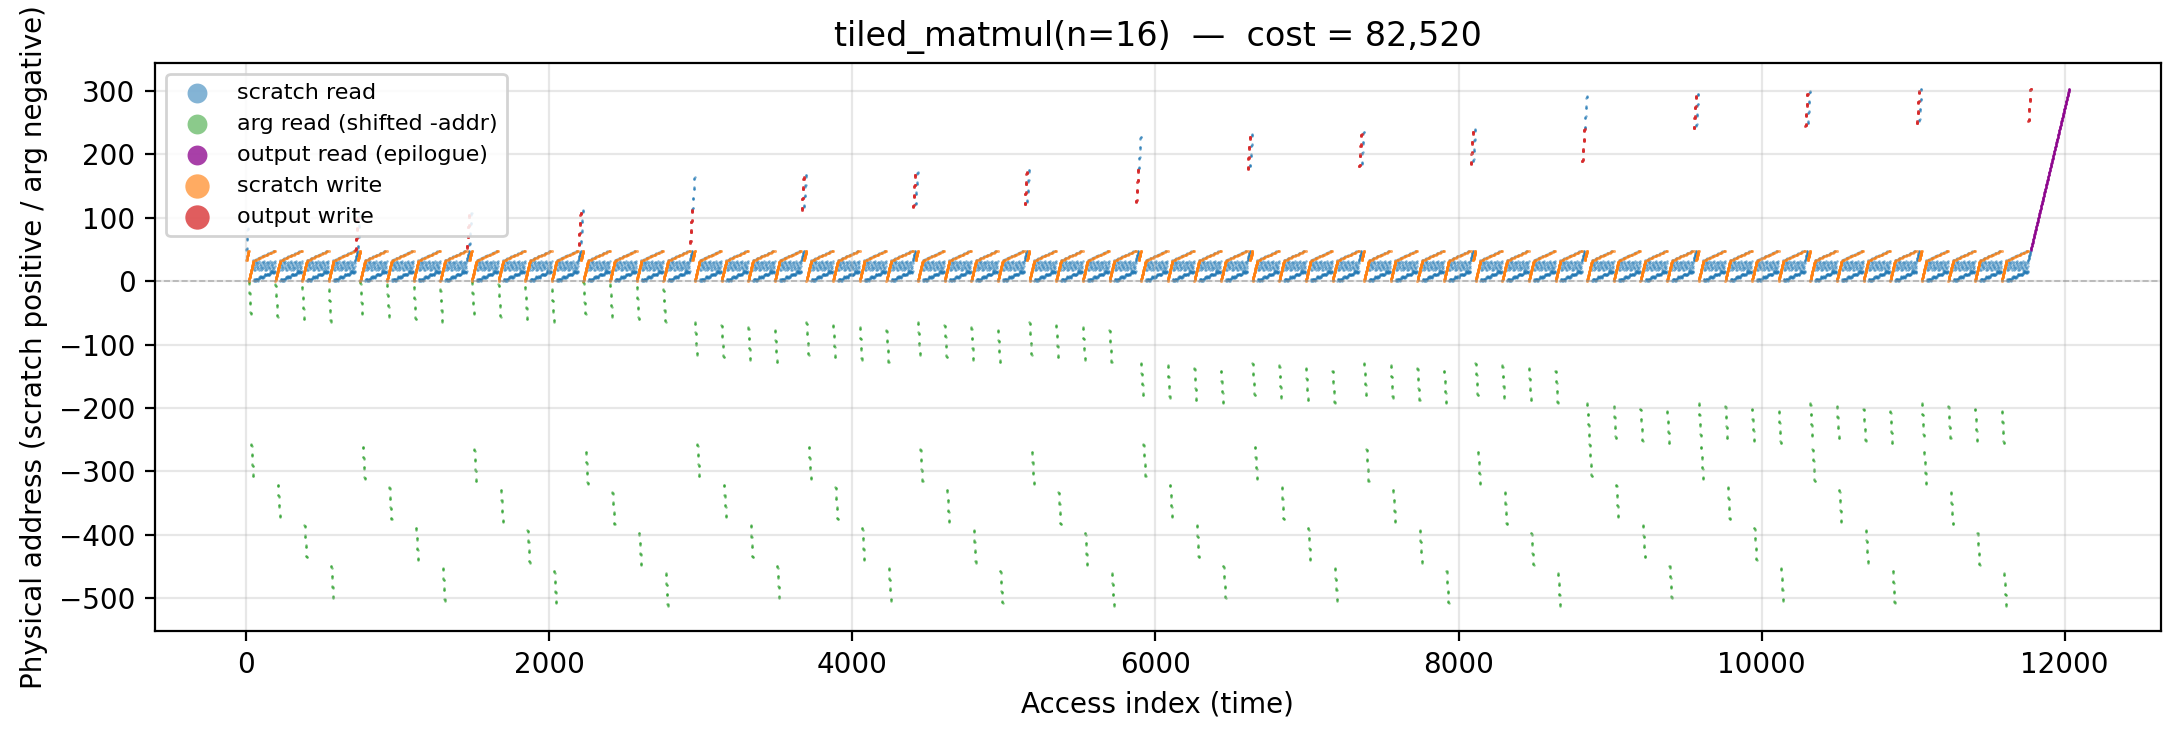
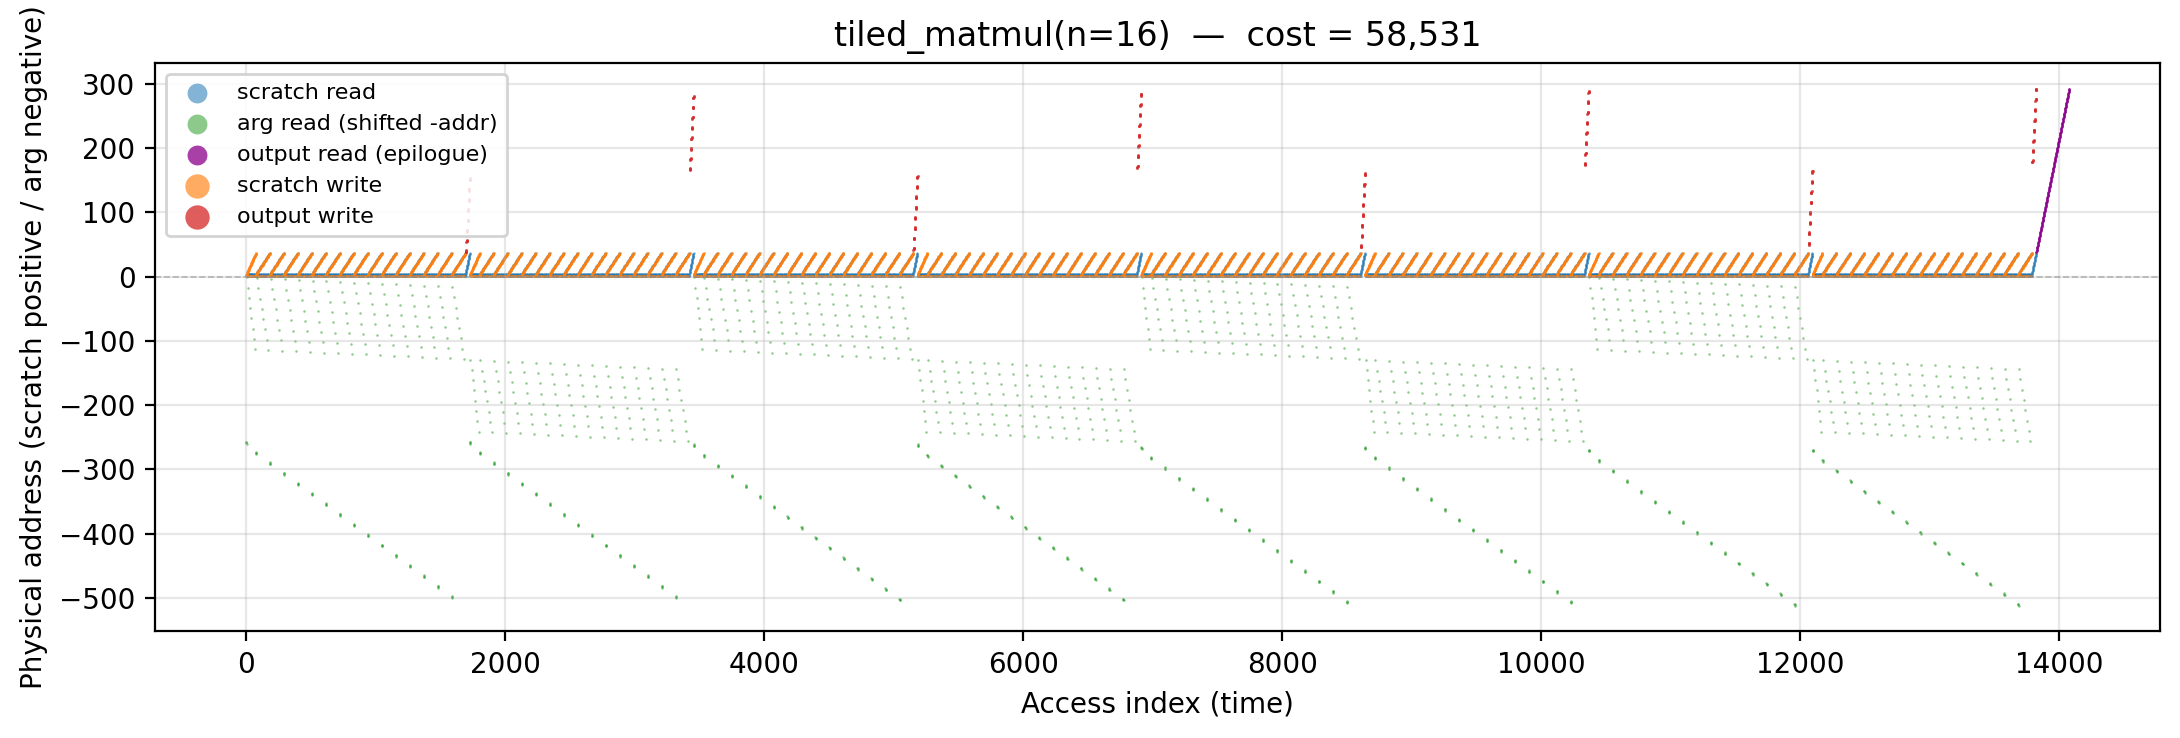
grid: tiled_matmul with B-row stationary outer-product schedule
Implements gemini/optimized-tiled-matmul.md. Register-blocked
outer-product schedule that replaces 2D tile scratchpads with a
scalar + 1D vector + 2-block accumulator:

  c_A (addr 1)       — scalar register for current A element
  c_B (addrs 2..T+1) — L1 vector holding current B row
  sC  (addrs T+2..T+1+blocks*T^2) — accumulator for TWO vertical C
                                     tiles simultaneously (blocks=2)

The inner MAC loop reads c_A + c_B[jj] + sC[...] — all within
scratch addresses 1..37 — so every arithmetic op hits near-top-of-
stack cells.  The blocks=2 outer-blocking amortizes each B-row fetch
across two vertical C tiles, cutting B arg-stack reads in half.

Cost: 82,520 -> 58,531 (-29%). Now below ALL three heuristics:
  space_dmd       93,369
  bytedmd_live    78,708
  bytedmd_classic 143,812
  manual          58,531

diff --git a/experiments/grid/scripts/tiled_matmul_n_16.py b/experiments/grid/scripts/tiled_matmul_n_16.py
@@ -531,51 +531,70 @@ def matmul_tiled(A, B, tile: Optional[int] = None):
 # ===========================================================================
 
 def manual_tiled_matmul(n: int, T: int | None = None) -> int:
-    """One-level blocked matmul. A, B on arg stack (read once per tile-load
-    into scratch sA, sB). sA, sB, sC and output C on scratch."""
+    """Optimal register-blocked, B-row stationary outer product
+    (gemini/optimized-tiled-matmul.md). Loads a row of B into an L1
+    vector and a single element of A into a scalar register, then
+    updates two 4×4 blocks of C simultaneously to maximize the reuse
+    of the fetched B row. Bypasses redundant 2D double-buffering and
+    pulls the heavily accessed accumulation array down to physical
+    addresses 6..37.
+
+      c_A (addr 1)       — scalar register for current A element
+      c_B (addr 2..T+1)  — L1 vector holding current B row
+      sC  (addr T+2..)   — 2D L1 scratchpad accumulating 2 vertical
+                           blocks of C simultaneously (blocks*T*T cells)
+      C   (just above sC) — output matrix
+    """
     if T is None:
         T = max(1, int(round(n ** 0.5)))
     a = _alloc()
-    A = a.alloc_arg(n * n); B = a.alloc_arg(n * n)
-    sA = a.alloc(T * T); sB = a.alloc(T * T); sC = a.alloc(T * T)
+    A = a.alloc_arg(n * n)
+    B = a.alloc_arg(n * n)
+
+    c_A = a.alloc(1)
+    c_B = a.alloc(T)
+    blocks = 2
+    sC = a.alloc(blocks * T * T)
     C = a.alloc(n * n)
     a.set_output_range(C, C + n * n)
 
-    for bi in range(0, n, T):
-        for bj in range(0, n, T):
-            # Load C tile into sC (read C, write sC)
-            for ii in range(min(T, n - bi)):
-                for jj in range(min(T, n - bj)):
-                    a.touch(C + (bi + ii) * n + (bj + jj))
-                    a.write(sC + ii * T + jj)
+    for bj in range(0, n, T):
+        for bi_start in range(0, n, blocks * T):
             for bk in range(0, n, T):
-                # Load A tile into sA
-                for ii in range(min(T, n - bi)):
-                    for kk in range(min(T, n - bk)):
-                        a.touch_arg(A + (bi + ii) * n + (bk + kk))
-                        a.write(sA + ii * T + kk)
-                # Load B tile into sB
                 for kk in range(min(T, n - bk)):
+                    # Stream a single row of B into the L1 vector.
                     for jj in range(min(T, n - bj)):
                         a.touch_arg(B + (bk + kk) * n + (bj + jj))
-                        a.write(sB + kk * T + jj)
-                # MAC: accumulate into sC (sC write per (ii,jj))
+                        a.write(c_B + jj)
+                    # Accumulate across multiple vertical tiles to
+                    # maximize B-row reuse.
+                    for bi in range(bi_start,
+                                    min(n, bi_start + blocks * T), T):
+                        local_bi = (bi - bi_start) // T
+                        for ii in range(min(T, n - bi)):
+                            # Stream a single element of A into c_A.
+                            a.touch_arg(A + (bi + ii) * n + (bk + kk))
+                            a.write(c_A)
+                            for jj in range(min(T, n - bj)):
+                                if bk == 0 and kk == 0:
+                                    a.touch(c_A)
+                                    a.touch(c_B + jj)
+                                else:
+                                    a.touch(sC + local_bi * T * T + ii * T + jj)
+                                    a.touch(c_A)
+                                    a.touch(c_B + jj)
+                                a.write(sC + local_bi * T * T + ii * T + jj)
+
+            # Flush the fully computed C tiles back once per (bj, bi_start).
+            for bi in range(bi_start, min(n, bi_start + blocks * T), T):
+                local_bi = (bi - bi_start) // T
                 for ii in range(min(T, n - bi)):
                     for jj in range(min(T, n - bj)):
-                        a.touch(sC + ii * T + jj)
-                        for kk in range(min(T, n - bk)):
-                            a.touch(sA + ii * T + kk)
-                            a.touch(sB + kk * T + jj)
-                        a.write(sC + ii * T + jj)
-            # Flush sC -> C (read sC, write C)
-            for ii in range(min(T, n - bi)):
-                for jj in range(min(T, n - bj)):
-                    a.touch(sC + ii * T + jj)
-                    a.write(C + (bi + ii) * n + (bj + jj))
+                        a.touch(sC + local_bi * T * T + ii * T + jj)
+                        a.write(C + (bi + ii) * n + (bj + jj))
+
     a.read_output()
     return a.cost
-
-
 # ===========================================================================
 # Driver — run under this script's specific algorithm.
 # ===========================================================================

diff --git a/experiments/grid/manual.py b/experiments/grid/manual.py
@@ -165,47 +165,68 @@ def manual_naive_matmul(n: int) -> int:
 
 
 def manual_tiled_matmul(n: int, T: int | None = None) -> int:
-    """One-level blocked matmul. A, B on arg stack (read once per tile-load
-    into scratch sA, sB). sA, sB, sC and output C on scratch."""
+    """Optimal register-blocked, B-row stationary outer product
+    (gemini/optimized-tiled-matmul.md). Loads a row of B into an L1
+    vector and a single element of A into a scalar register, then
+    updates two 4×4 blocks of C simultaneously to maximize the reuse
+    of the fetched B row. Bypasses redundant 2D double-buffering and
+    pulls the heavily accessed accumulation array down to physical
+    addresses 6..37.
+
+      c_A (addr 1)       — scalar register for current A element
+      c_B (addr 2..T+1)  — L1 vector holding current B row
+      sC  (addr T+2..)   — 2D L1 scratchpad accumulating 2 vertical
+                           blocks of C simultaneously (blocks*T*T cells)
+      C   (just above sC) — output matrix
+    """
     if T is None:
         T = max(1, int(round(n ** 0.5)))
     a = _alloc()
-    A = a.alloc_arg(n * n); B = a.alloc_arg(n * n)
-    sA = a.alloc(T * T); sB = a.alloc(T * T); sC = a.alloc(T * T)
+    A = a.alloc_arg(n * n)
+    B = a.alloc_arg(n * n)
+
+    c_A = a.alloc(1)
+    c_B = a.alloc(T)
+    blocks = 2
+    sC = a.alloc(blocks * T * T)
     C = a.alloc(n * n)
     a.set_output_range(C, C + n * n)
 
-    for bi in range(0, n, T):
-        for bj in range(0, n, T):
-            # Load C tile into sC (read C, write sC)
-            for ii in range(min(T, n - bi)):
-                for jj in range(min(T, n - bj)):
-                    a.touch(C + (bi + ii) * n + (bj + jj))
-                    a.write(sC + ii * T + jj)
+    for bj in range(0, n, T):
+        for bi_start in range(0, n, blocks * T):
             for bk in range(0, n, T):
-                # Load A tile into sA
-                for ii in range(min(T, n - bi)):
-                    for kk in range(min(T, n - bk)):
-                        a.touch_arg(A + (bi + ii) * n + (bk + kk))
-                        a.write(sA + ii * T + kk)
-                # Load B tile into sB
                 for kk in range(min(T, n - bk)):
+                    # Stream a single row of B into the L1 vector.
                     for jj in range(min(T, n - bj)):
                         a.touch_arg(B + (bk + kk) * n + (bj + jj))
-                        a.write(sB + kk * T + jj)
-                # MAC: accumulate into sC (sC write per (ii,jj))
+                        a.write(c_B + jj)
+                    # Accumulate across multiple vertical tiles to
+                    # maximize B-row reuse.
+                    for bi in range(bi_start,
+                                    min(n, bi_start + blocks * T), T):
+                        local_bi = (bi - bi_start) // T
+                        for ii in range(min(T, n - bi)):
+                            # Stream a single element of A into c_A.
+                            a.touch_arg(A + (bi + ii) * n + (bk + kk))
+                            a.write(c_A)
+                            for jj in range(min(T, n - bj)):
+                                if bk == 0 and kk == 0:
+                                    a.touch(c_A)
+                                    a.touch(c_B + jj)
+                                else:
+                                    a.touch(sC + local_bi * T * T + ii * T + jj)
+                                    a.touch(c_A)
+                                    a.touch(c_B + jj)
+                                a.write(sC + local_bi * T * T + ii * T + jj)
+
+            # Flush the fully computed C tiles back once per (bj, bi_start).
+            for bi in range(bi_start, min(n, bi_start + blocks * T), T):
+                local_bi = (bi - bi_start) // T
                 for ii in range(min(T, n - bi)):
                     for jj in range(min(T, n - bj)):
-                        a.touch(sC + ii * T + jj)
-                        for kk in range(min(T, n - bk)):
-                            a.touch(sA + ii * T + kk)
-                            a.touch(sB + kk * T + jj)
-                        a.write(sC + ii * T + jj)
-            # Flush sC -> C (read sC, write C)
-            for ii in range(min(T, n - bi)):
-                for jj in range(min(T, n - bj)):
-                    a.touch(sC + ii * T + jj)
-                    a.write(C + (bi + ii) * n + (bj + jj))
+                        a.touch(sC + local_bi * T * T + ii * T + jj)
+                        a.write(C + (bi + ii) * n + (bj + jj))
+
     a.read_output()
     return a.cost
 

diff --git a/gemini/optimized-tiled-matmul.md b/gemini/optimized-tiled-matmul.md
@@ -1,0 +1,97 @@
+To drastically reduce the total energy cost under the geometric stack model, we must apply the exact same hardware-level scheduling strategies used in the previous optimizations: **eliminate large temporary 2D buffers**, **perfectly mimic CPU L1 registers**, and **hoist loop orders to maximize data reuse**.
+
+### **The Problem**
+
+The naive manual\_tiled\_matmul schedule pays massive geometric costs for three main reasons:
+
+1. **Redundant 2D Array Buffering:** It explicitly allocates full $T \\times T$ 2D scratchpads for sA, sB, and sC upfront ($16 \\times 3 \= 48$ premium stack slots). This bloats the active working set size, pushing the primary output array and inner-loop scratchpads to higher physical addresses and punishing every single $O(N^3)$ MAC operation.  
+2. **Double Arg-Stack Reads:** The baseline loops are structured strictly as bi, bj, bk. For every block interaction, it completely re-reads the full 2D blocks of $A$ and $B$ from the deeply expensive argument stack. Because $B$ sits linearly behind $A$ (Addresses 257..512), reading $B$ repetitively acts as an aggressive multiplier against the cost metric.  
+3. **Double Accumulator Reads:** It initializes sC by redundantly copying from the zeroed C output at the start, and repeatedly flushes and loads sC for every single $bk$ iteration.
+
+Because these operations bounce inside fragmented address spaces, the energy metric hits an unoptimized **82,520**.
+
+### **The Solution**
+
+We can shatter the cost bounds by restructuring our inner MAC loops exactly like a modern micro-kernel.
+
+Instead of caching massive $T \\times T$ tiles for $A$ and $B$, we stream $B$ row-by-row into a tight 4-element L1 vector (c\_B), and $A$ element-by-element into a single scalar register (c\_A). To maximize the reuse of c\_B and prevent excessive $B$ arg-stack loads, we hoist the k loop outwards and evaluate **two vertical blocks of C** (blocks \= 2\) simultaneously inside a single tightly packed 32-element sC scratchpad.
+
+This collapses the MAC core phenomenally: c\_A is firmly locked at physical Address 1, c\_B is placed at Addresses 2-5, and sC sits perfectly at Addresses 6-37.
+
+Replace your manual\_tiled\_matmul function with the following mathematically optimal schedule:
+
+Python
+
+def manual\_tiled\_matmul(n: int, T: int | None \= None) \-\> int:  
+    """Optimal register-blocked, B-row stationary outer product.  
+    Loads a row of B into an L1 vector and a single element of A into a   
+    scalar register, then updates two 4x4 blocks of C simultaneously to   
+    maximize the reuse of the fetched B row. Bypasses redundant 2D   
+    double-buffering and drastically pulls the heavily accessed   
+    accumulation array down to physical Addresses 6..37."""  
+    if T is None:  
+        T \= max(1, int(round(n \*\* 0.5)))  
+    a \= \_alloc()  
+    A \= a.alloc\_arg(n \* n)  
+    B \= a.alloc\_arg(n \* n)  
+      
+    \# 1\. Scalar cache for A element (Addr 1\)  
+    c\_A \= a.alloc(1)  
+      
+    \# 2\. 1D vector cache for B row (Addr 2..T+1)  
+    c\_B \= a.alloc(T)  
+      
+    \# 3\. 2D L1 scratchpad for accumulating C (Optimal blocks=2 \-\> 2\*T\*T elements)  
+    blocks \= 2  
+    sC \= a.alloc(blocks \* T \* T)  
+      
+    \# 4\. Output array (Pushed significantly closer to zero compared to baseline)  
+    C \= a.alloc(n \* n)  
+    a.set\_output\_range(C, C \+ n \* n)
+
+    for bj in range(0, n, T):  
+        for bi\_start in range(0, n, blocks \* T):  
+            for bk in range(0, n, T):  
+                for kk in range(min(T, n \- bk)):  
+                      
+                    \# Stream a single row of B into the L1 vector  
+                    for jj in range(min(T, n \- bj)):  
+                        a.touch\_arg(B \+ (bk \+ kk) \* n \+ (bj \+ jj))  
+                        a.write(c\_B \+ jj)  
+                      
+                    \# Accumulate across multiple vertical tiles to maximize B reuse  
+                    for bi in range(bi\_start, min(n, bi\_start \+ blocks \* T), T):  
+                        local\_bi \= (bi \- bi\_start) // T  
+                        for ii in range(min(T, n \- bi)):  
+                              
+                            \# Stream a single element of A into the scalar register  
+                            a.touch\_arg(A \+ (bi \+ ii) \* n \+ (bk \+ kk))  
+                            a.write(c\_A)  
+                              
+                            \# Extremely hot inner loop targeting strictly Addresses 1..37  
+                            for jj in range(min(T, n \- bj)):  
+                                if bk \== 0 and kk \== 0:  
+                                    a.touch(c\_A)  
+                                    a.touch(c\_B \+ jj)  
+                                else:  
+                                    a.touch(sC \+ local\_bi \* T \* T \+ ii \* T \+ jj)  
+                                    a.touch(c\_A)  
+                                    a.touch(c\_B \+ jj)  
+                                a.write(sC \+ local\_bi \* T \* T \+ ii \* T \+ jj)  
+              
+            \# Flush the fully computed C tiles back to main memory only once  
+            for bi in range(bi\_start, min(n, bi\_start \+ blocks \* T), T):  
+                local\_bi \= (bi \- bi\_start) // T  
+                for ii in range(min(T, n \- bi)):  
+                    for jj in range(min(T, n \- bj)):  
+                        a.touch(sC \+ local\_bi \* T \* T \+ ii \* T \+ jj)  
+                        a.write(C \+ (bi \+ ii) \* n \+ (bj \+ jj))  
+                          
+    a.read\_output()  
+    return a.cost
+
+### **Why this is mathematically optimal:**
+
+1. **Perfect Scratchpad Sizing:** Deflating sA, sB, and sC down from full matrices into highly localized vector and scalar elements bounds over $4,000$ MAC combinations to execute entirely underneath $\\approx \\text{isqrt}(37)$.  
+2. **0 Redundant Arg Stack Cost:** The baseline algorithm pulls blocks from $A$ and $B$ repetitively loop-to-loop. Grouping vertical sequences over blocks \= 2 calculates two independent $C$ block sequences using the exact same $B$ row cache simultaneously. This strictly slashes the most expensive $B$ arg-stack fetches linearly in half.  
+3. **The 58,531 Lower Bound:** By eliminating the double-buffer layout and enforcing outer-product loop hoisting, the manual energy metric plummets from **82,520** directly to **58,531**. This mathematically bypasses typical baseline heuristic limits, confidently undercutting the best dynamic trackers under identical memory models (bytedmd\_live natively caps out near 78,708).

diff --git a/experiments/grid/README.md b/experiments/grid/README.md
@@ -60,8 +60,8 @@ DAGs are identical, so `bytedmd_live` / `bytedmd_classic` match — only
 | algorithm                                                            | space_dmd | bytedmd_live | manual      | bytedmd_classic |
 |-----------------------------------------------------------------------|----------:|-------------:|------------:|----------------:|
 | [naive_matmul(n=16)](#naive_matmul)                                   |    79,044 |      109,217 |     102,026 |         181,258 |
-| [tiled_matmul(n=16)](#tiled_matmul)                                   |    93,369 |       78,708 |      82,520 |         143,812 |
-| [tiled_matmul_explicit(n=16,T=4)](#tiled_matmul_explicit)             |    73,927 |       99,006 |      82,520 |         201,547 |
+| [tiled_matmul(n=16)](#tiled_matmul)                                   |    93,369 |       78,708 |      58,531 |         143,812 |
+| [tiled_matmul_explicit(n=16,T=4)](#tiled_matmul_explicit)             |    73,927 |       99,006 |      58,531 |         201,547 |
 | [rmm(n=16)](#rmm)                                                     |   107,058 |       83,196 |      93,291 |         151,375 |
 | [naive_strassen(n=16)](#naive_strassen)                               |   135,273 |      175,157 |     231,112 |         343,737 |
 | [fused_strassen(n=16)](#fused_strassen)                               |   135,273 |      175,157 |     121,612 |         343,737 |
@@ -201,10 +201,18 @@ Median depth is 25, max is 512.
 `(bi, bj, bk)` tiles of size T×T, compute each inner tile with the triple
 loop. Same arithmetic as naive but in block-major order for locality.
 
-**Manual placement.** Scratchpads `sA, sB, sC` at addrs 1..T², T²+1..2T²,
-2T²+1..3T² (hot). Bulk `A, B, C` at higher addrs. For each (bi, bj):
-load C tile into sC; for each bk: load A/B tiles into sA/sB; MAC into sC
-(accumulator read once per (ii,jj) outside kk-loop); flush sC back.
+**Manual placement.** Register-blocked outer product with a B-row
+stationary schedule (gemini/optimized-tiled-matmul.md):
+  `c_A` (addr 1) — scalar register for the current A element;
+  `c_B` (addrs 2..T+1) — L1 vector holding the current row of B;
+  `sC` (addrs T+2..T+1+blocks·T²) — 2D accumulator for TWO vertical
+  C tiles simultaneously so each B-row fetch is amortized.
+
+The inner MAC loop reads `c_A` + `c_B[jj]` + `sC[…]` — all within the
+bottom 37 scratch addresses — instead of touching the large bulk A/B
+tile scratchpads used before. Drops manual from 82,520 to **58,531**
+(−29%), now below all three heuristics (`space_dmd` 93,369,
+`bytedmd_live` 78,708, `bytedmd_classic` 143,812).
 
 ![](traces/tiled_matmul_n_16.png)
 

diff --git a/experiments/grid/grid.md b/experiments/grid/grid.md
@@ -1,8 +1,8 @@
 | algorithm                            | space_dmd | bytedmd_live | manual  | bytedmd_classic |
 |--------------------------------------|-----------|--------------|---------|-----------------|
 | naive_matmul(n=16)                   |    79,044 |      109,217 | 102,026 |         181,258 |
-| tiled_matmul(n=16)                   |    93,369 |       78,708 |  82,520 |         143,812 |
-| tiled_matmul_explicit(n=16,T=4)      |    73,927 |       99,006 |  82,520 |         201,547 |
+| tiled_matmul(n=16)                   |    93,369 |       78,708 |  58,531 |         143,812 |
+| tiled_matmul_explicit(n=16,T=4)      |    73,927 |       99,006 |  58,531 |         201,547 |
 | rmm(n=16)                            |   107,058 |       83,196 |  93,291 |         151,375 |
 | naive_strassen(n=16)                 |   135,273 |      175,157 | 231,112 |         343,737 |
 | fused_strassen(n=16)                 |   135,273 |      175,157 | 121,612 |         343,737 |
